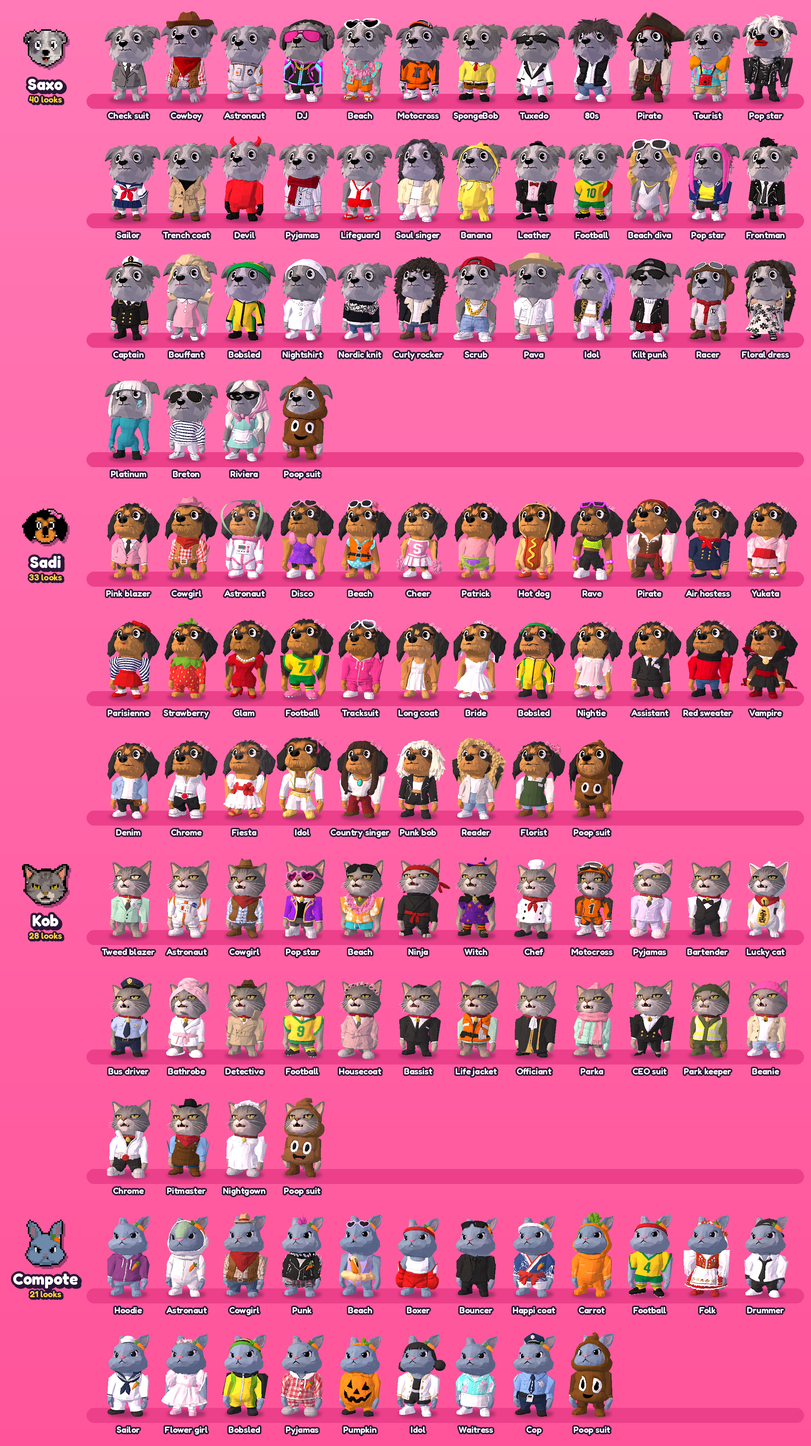
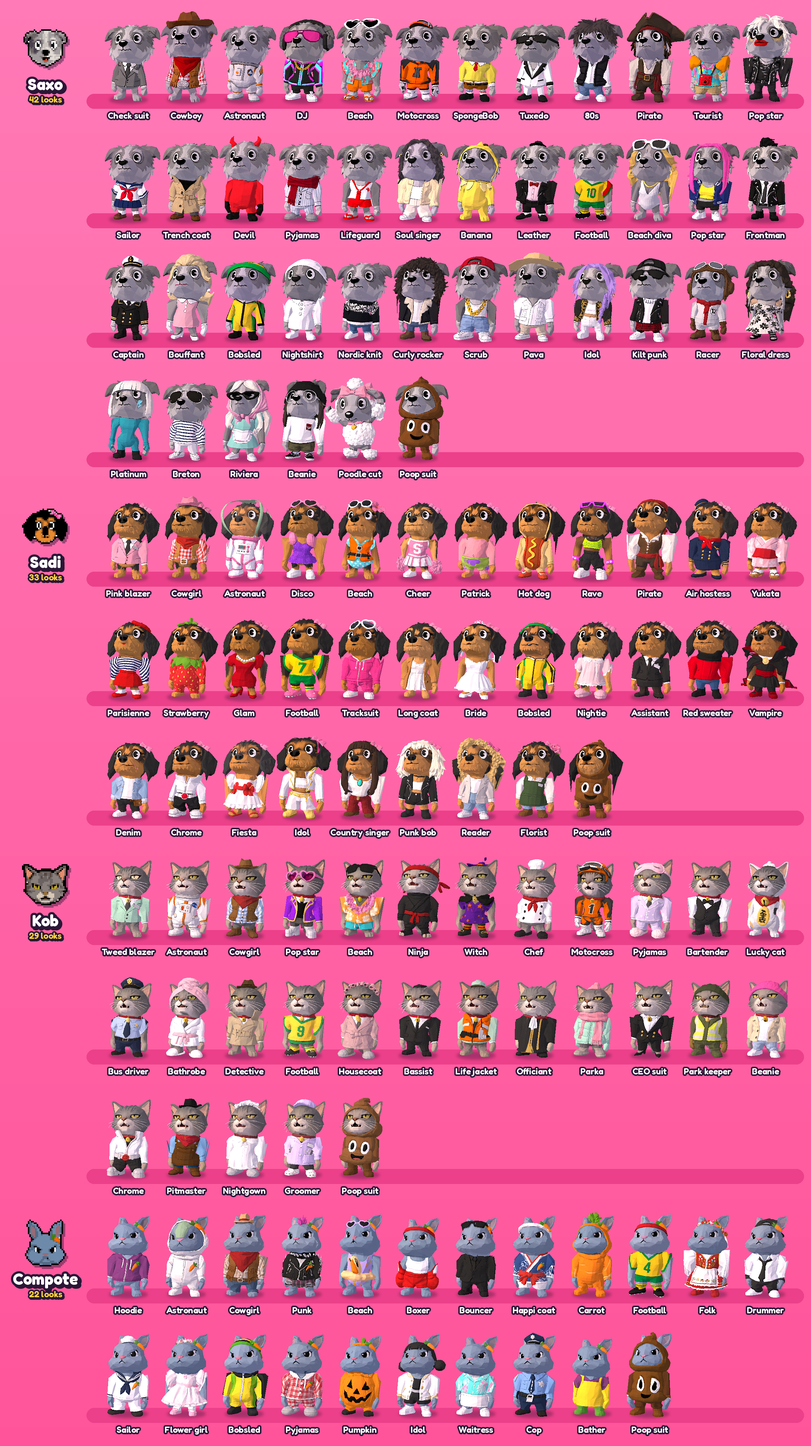
Sync with 5701d13: docs(readme): add the grooming salon and the BIRDS OF A FEATHER looks

Changed region(s): [[0.3431, 0.2494, 0.5615, 0.3429], [0.6863, 0.904, 0.8422, 0.9975], [0.3431, 0.7481, 0.4679, 0.8416]]

diff --git a/README.md b/README.md
@@ -89,7 +89,7 @@
 </table>
 
 <p align="center">
-  <img src="docs/readme/wardrobe.png" width="100%" alt="The wardrobe: every look of Saxo, Sadi, Kob and Compote, from cowboy and astronaut to SpongeBob, a white tuxedo, Kob's pyjamas, the pirates, the tourist, the air hostess, a pop-star disguise, Kob the bartender, a sailor uniform, a yukata, a lucky-cat suit, a happi coat, a trench coat, a Parisienne, a bus driver, sick-day pyjamas, a devil suit, a lifeguard, a bathrobe, a soul singer, a banana, a strawberry, a carrot, a leather jacket, Kob the private eye, a sequin dress, the team's football kit, a ship's captain, a life jacket, a bride, a bobsled suit, a sleepwalker's nightshirt, Kob's CEO suit, Sadi's assistant suit, a Nordic knit, Sadi's red sweater, Kob the park keeper, Sadi the vampire, a pumpkin suit, a curly rocker, a denim jacket, Kob's pink beanie, a gold chain, the girl group's chrome stage look, a straw hat and guayabera, a white party sundress, the idol trio's stage looks, Sadi the country singer, Kob the pitmaster, a punk duo's tartan kilt and platinum bob, a vintage racing driver, an 80s perm, a floral sundress, a florist's apron, a teal catsuit, a Breton top, a pool waitress's Hawaiian shirt, a 60s headscarf with cat-eye shades, a police uniform, a nightgown and nightcap and the poop suit">
+  <img src="docs/readme/wardrobe.png" width="100%" alt="The wardrobe: every look of Saxo, Sadi, Kob and Compote, from cowboy and astronaut to SpongeBob, a white tuxedo, Kob's pyjamas, the pirates, the tourist, the air hostess, a pop-star disguise, Kob the bartender, a sailor uniform, a yukata, a lucky-cat suit, a happi coat, a trench coat, a Parisienne, a bus driver, sick-day pyjamas, a devil suit, a lifeguard, a bathrobe, a soul singer, a banana, a strawberry, a carrot, a leather jacket, Kob the private eye, a sequin dress, the team's football kit, a ship's captain, a life jacket, a bride, a bobsled suit, a sleepwalker's nightshirt, Kob's CEO suit, Sadi's assistant suit, a Nordic knit, Sadi's red sweater, Kob the park keeper, Sadi the vampire, a pumpkin suit, a curly rocker, a denim jacket, Kob's pink beanie, a gold chain, the girl group's chrome stage look, a straw hat and guayabera, a white party sundress, the idol trio's stage looks, Sadi the country singer, Kob the pitmaster, a punk duo's tartan kilt and platinum bob, a vintage racing driver, an 80s perm, a floral sundress, a florist's apron, a teal catsuit, a Breton top, a pool waitress's Hawaiian shirt, a 60s headscarf with cat-eye shades, a police uniform, a nightgown and nightcap, a beanie with round glasses, a show-poodle cut with a pink bow, Kob the groomer, Compote the bather and the poop suit">
 </p>
 
 Each map dresses the cast for the occasion: astronaut suits on the moon, cowboy hats out west, SpongeBob and Patrick
@@ -98,7 +98,7 @@ in Bikini Bottom, a hot dog in the supermarket. The poop suit is never automatic
 ## 80 maps, and counting
 
 <p align="center">
-  <img src="docs/readme/maps.png" width="100%" alt="The maps, from the street, club and moon to Tokyo, Paris, the yacht, the techno club, the treasure cave, the black ship, the plane, the chapel club, the desert village, the blossom festival, the pier at dusk, the night bus, a house party, a hospital ward, a water park, a radio studio, a fruits-only warehouse party, a film-noir night street, a cup final under the floodlights, a tiny Earth in space, a baobab on the savanna, a Spanish beach, a grey housing estate, a desert stage, a band trailer, a pink childhood bedroom, a schooner that sinks, a white wedding chapel, a Kingston beach, an Olympic bobsled track at night, a gothic tower ledge in the rain, a talent agency at night with the CEO's red office, a city park in autumn, a graveyard on Halloween night, a band's stage on a red canyon's rim at golden hour, a girl group's white spaceship set with a giant chrome NO, a night street where a saucer has landed, a lowrider cruising down a boulevard at night, a family party in a carport, an open-air K-pop arena at night, a Texas dance hall, the road into Abilene at golden hour, a pink apartment block's party lift, its stairwell and the penthouse party, an 80s diner whose back wall is a giant comic page, a London street with a bookshop and a flower stall, a white villa's pool deck at night with a poker table, an all-inclusive resort's pool at midday, an Italian lakefront's espresso bar at 3 a.m., each with the cast in costume">
+  <img src="docs/readme/maps.png" width="100%" alt="The maps, from the street, club and moon to Tokyo, Paris, the yacht, the techno club, the treasure cave, the black ship, the plane, the chapel club, the desert village, the blossom festival, the pier at dusk, the night bus, a house party, a hospital ward, a water park, a radio studio, a fruits-only warehouse party, a film-noir night street, a cup final under the floodlights, a tiny Earth in space, a baobab on the savanna, a Spanish beach, a grey housing estate, a desert stage, a band trailer, a pink childhood bedroom, a schooner that sinks, a white wedding chapel, a Kingston beach, an Olympic bobsled track at night, a gothic tower ledge in the rain, a talent agency at night with the CEO's red office, a city park in autumn, a graveyard on Halloween night, a band's stage on a red canyon's rim at golden hour, a girl group's white spaceship set with a giant chrome NO, a night street where a saucer has landed, a lowrider cruising down a boulevard at night, a family party in a carport, an open-air K-pop arena at night, a Texas dance hall, the road into Abilene at golden hour, a pink apartment block's party lift, its stairwell and the penthouse party, an 80s diner whose back wall is a giant comic page, a London street with a bookshop and a flower stall, a white villa's pool deck at night with a poker table, an all-inclusive resort's pool at midday, an Italian lakefront's espresso bar at 3 a.m., a 70s grooming salon with a bath tub and a dryer, each with the cast in costume">
 </p>
 
 Every map is built from primitives in [`src/maps*.js`](src/) and animated as a pure function of time, mostly on the
